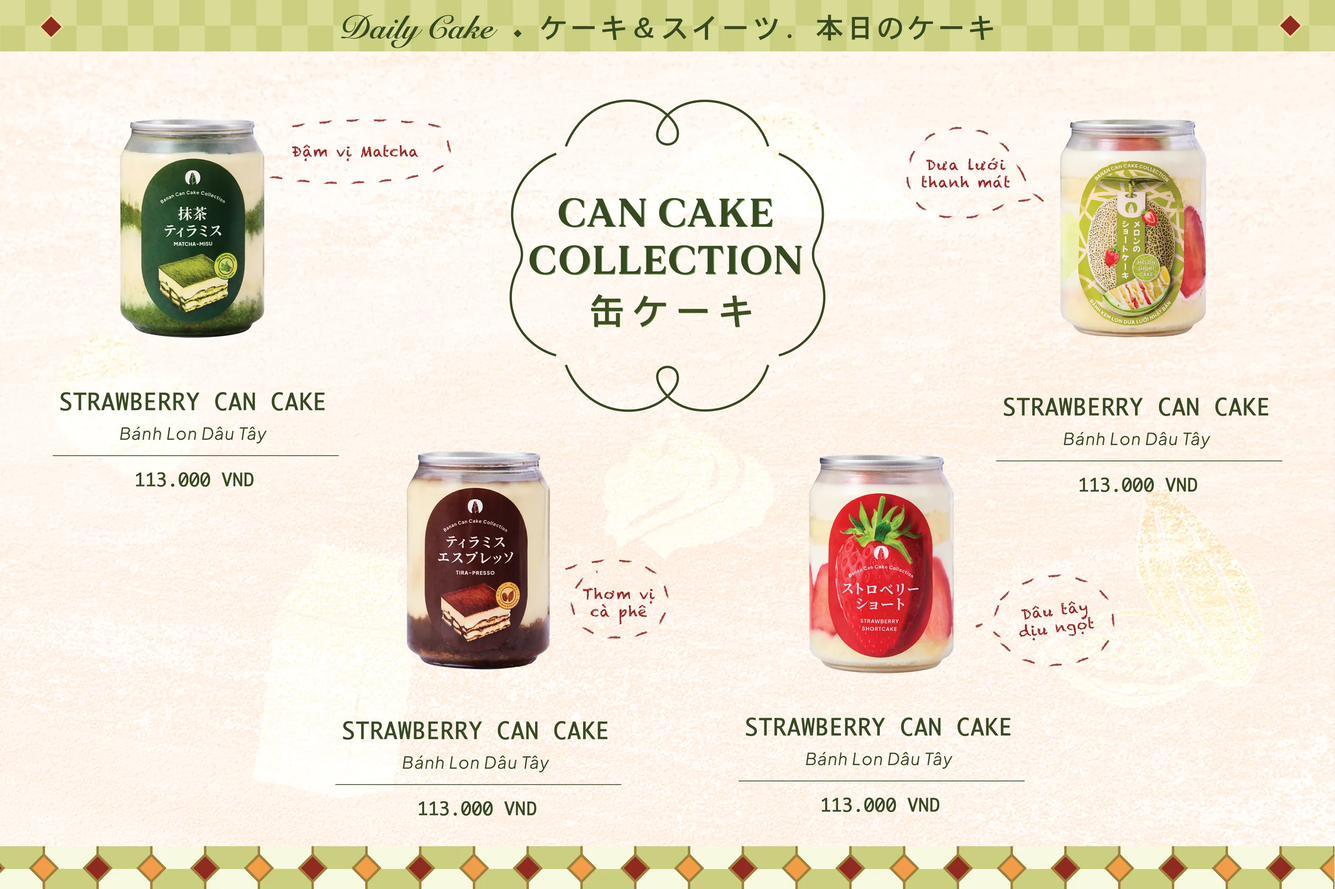
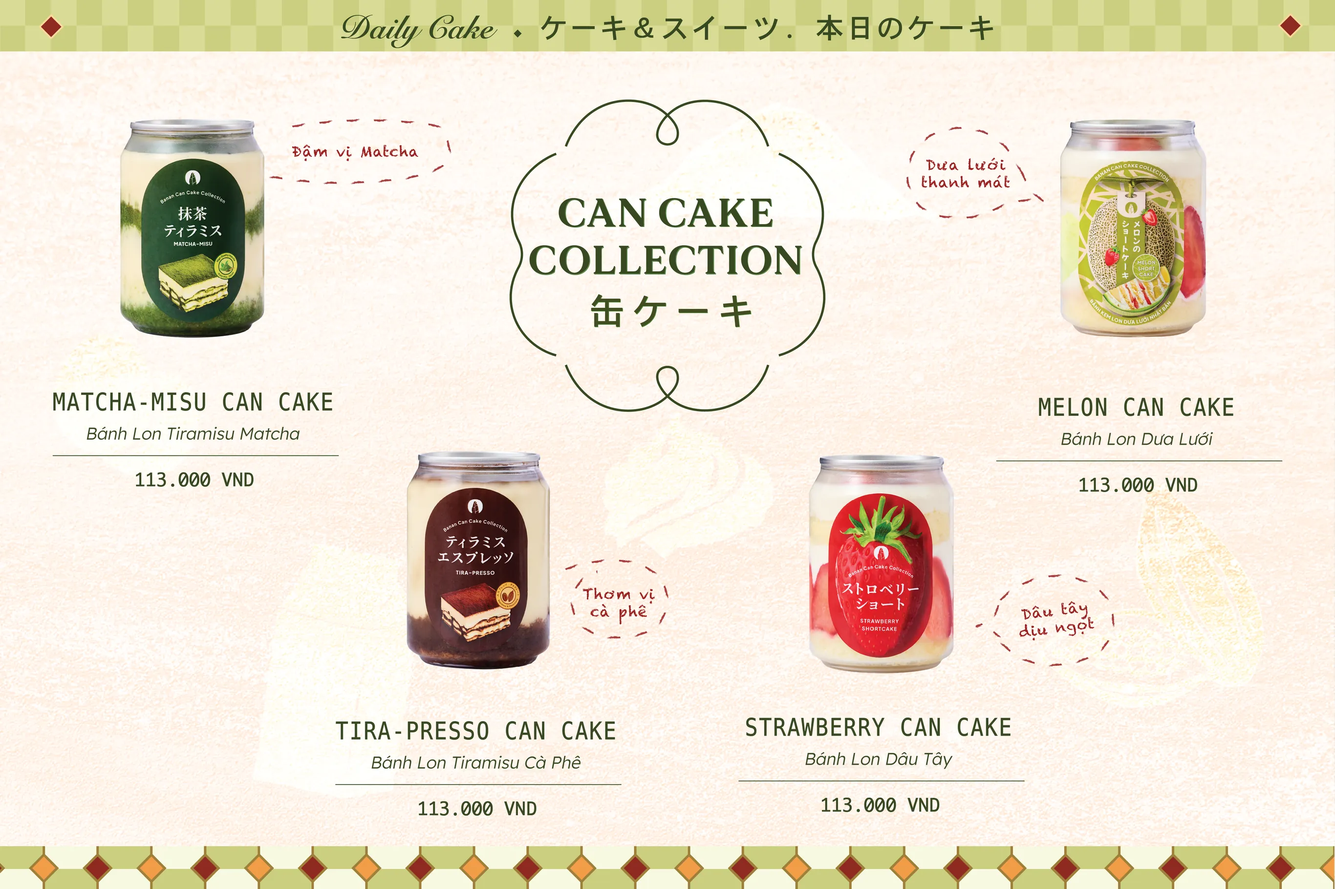
fix(intro): menu board page 9 names each can cake correctly
The designer's page labelled all four cans "Strawberry Can Cake". Relabel
them Matcha-Misu, Melon, Tira-Presso and Strawberry, and give p09 a
revision query so iPads drop the week-cached copy.

diff --git a/web-intro/menu-board.html b/web-intro/menu-board.html
@@ -148,7 +148,9 @@ button:focus-visible { outline: 3px solid var(--berry); outline-offset: 3px; }
   const $ = (id) => document.getElementById(id);
   const deck = $('deck'), count = $('count'), prev = $('prev'), next = $('next'), fs = $('fs');
   const idle = $('idle'), idleText = $('idleText'), idleFill = $('idleFill');
-  const src = (n) => `/img/menu-board/p${String(n).padStart(2, '0')}.webp`;
+  // Images are cached for a week: bump a page's revision when its image changes.
+  const REV = { 9: 2 };
+  const src = (n) => `/img/menu-board/p${String(n).padStart(2, '0')}.webp${REV[n] ? `?v=${REV[n]}` : ''}`;
   const kindOf = (real) => (real < MENUS.drinks.length ? 'drinks' : 'cakes');
 
   // Slides: [clone of last, ...all pages, clone of first]. Landing on a clone
